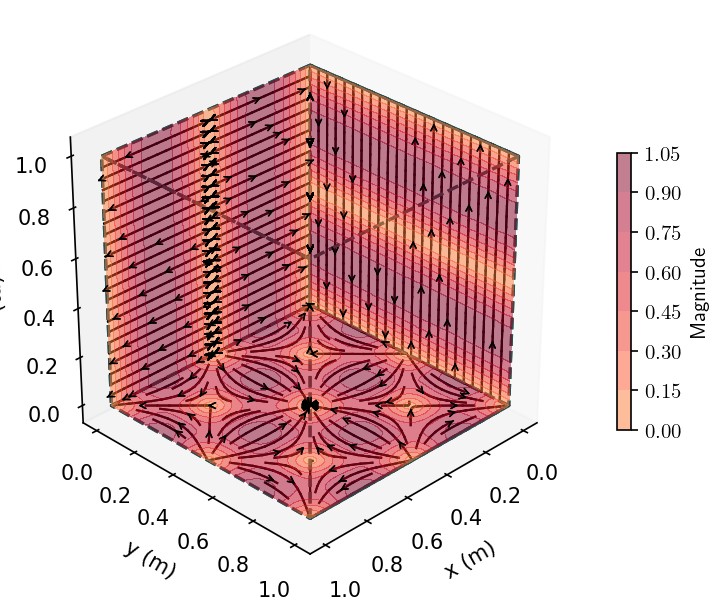
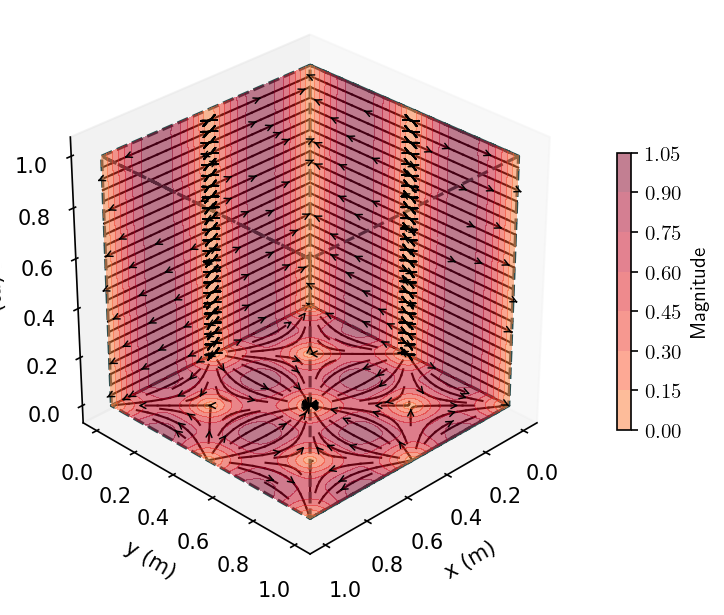
updated code

diff --git a/streamslice_func.py b/streamslice_func.py
@@ -137,8 +137,8 @@ def plot_stream_3d(lines, ax=None, plane='xy', scale=1.):
             new_z = old_y
         elif plane == 'yz':
             new_x = scale * np.ones_like(old_x)
-            new_y = old_x
-            new_z = old_y
+            new_y = old_y
+            new_z = old_x
         else:
             raise ValueError('plane must be xy, xz or yz')
         ax.plot(new_x, new_y, new_z, color='k', linewidth=1.)
@@ -190,7 +190,7 @@ def plot_projections(grid, vectorial_quantity, ax=None, colormax=(None, None),
                      'z': zmin * np.ones_like(grid[argminz, 2]), 'plane': 'xy'}
     xz_projection = {'u': vectorial_quantity[argminy], 'x': grid[argminy, 0], 'y': grid[argminy, 2],
                      'z': ymin * np.ones_like(grid[argminy, 1]), 'plane': 'xz'}
-    yz_projection = {'u': vectorial_quantity[argminx], 'x': grid[argminx, 1], 'y': grid[argminx, 2],
+    yz_projection = {'u': vectorial_quantity[argminx], 'x': grid[argminx, 2], 'y': grid[argminx, 1],
                      'z': xmin * np.ones_like(grid[argminx, 0]), 'plane': 'yz'}
 
     # Plot each projection
@@ -283,5 +283,6 @@ if __name__ == '__main__':
         cbar = fig.colorbar(q, ax=ax, shrink=0.5)
         cbar.ax.set_ylabel('Magnitude')
     fig.show()
+    fig.savefig('projections_contours.png', dpi=150, bbox_inches='tight')
 
 
